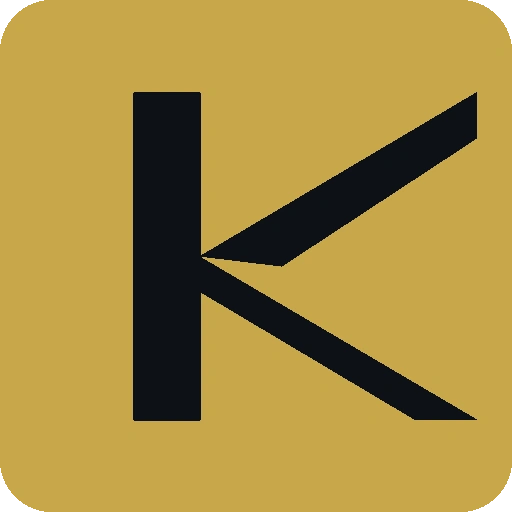
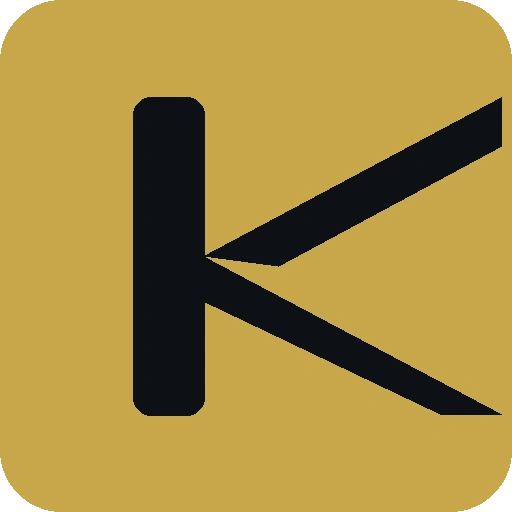
changes

diff --git a/partials/header.html b/partials/header.html
@@ -2,7 +2,23 @@
   <div class="container">
     <div class="brandbar-row">
       <a class="brand" href="/index.html" aria-label="Keynvest LLC Home">
-        <img class="logo-lockup" src="/images/keynvest-logo-1x.webp" alt="Keynvest LLC" />
+        <svg class="logo-lockup" viewBox="0 0 340 58" xmlns="http://www.w3.org/2000/svg" aria-hidden="true">
+          <!-- Gold mark -->
+          <rect x="0" y="0" width="58" height="58" rx="7" fill="#C8A84B"/>
+          <!-- K vertical bar -->
+          <rect x="15" y="11" width="8" height="36" rx="2" fill="#0d1117"/>
+          <!-- K upper arm -->
+          <polygon points="23,29 42,11 42,20 30,31" fill="#0d1117"/>
+          <!-- K lower arm -->
+          <polygon points="23,29 42,47 35,47 23,34" fill="#0d1117"/>
+
+          <!-- Wordmark: KEY white, NVEST gold -->
+          <text font-family="Georgia, 'Times New Roman', serif" font-size="28" font-weight="700" letter-spacing="1" y="36" x="72">
+            <tspan fill="#ffffff">KEY</tspan><tspan fill="#C8A84B">NVEST</tspan>
+          </text>
+          <!-- Tagline -->
+          <text font-family="'Helvetica Neue', Helvetica, Arial, sans-serif" font-size="9" font-weight="500" letter-spacing="2.5" fill="rgba(255,255,255,0.45)" x="72" y="51">REAL ESTATE · LAS VEGAS</text>
+        </svg>
       </a>
 
       <nav class="links" aria-label="Primary navigation">

diff --git a/partials/footer.html b/partials/footer.html
@@ -3,7 +3,12 @@
     <div class="row">
       <div>
         <div style="display:flex; align-items:center; gap:10px;">
-          <img class="logo-mark" src="/images/keynvest-mark.webp" alt="" />
+          <svg width="36" height="36" viewBox="0 0 58 58" xmlns="http://www.w3.org/2000/svg" aria-hidden="true">
+            <rect x="0" y="0" width="58" height="58" rx="7" fill="#C8A84B"/>
+            <rect x="15" y="11" width="8" height="36" rx="2" fill="#0d1117"/>
+            <polygon points="23,29 42,11 42,20 30,31" fill="#0d1117"/>
+            <polygon points="23,29 42,47 35,47 23,34" fill="#0d1117"/>
+          </svg>
           <strong style="color:var(--text)">Keynvest LLC</strong>
         </div>
         <small>Las Vegas-based real estate investment company focused on disciplined underwriting and long-term value.</small>

diff --git a/css/styles.css b/css/styles.css
@@ -201,7 +201,7 @@ nav.links a[aria-current="page"]{
 
 /* --- Logo sizing + helpers --- */
 .logo-mark{width:40px;height:40px}
-.logo-lockup{height:60px;width:auto;display:block}
+.logo-lockup{height:52px;width:auto;display:block}
 
 /* --- Typography --- */
 h2{font-size: clamp(22px, 2.4vw, 30px); margin:0 0 10px}
@@ -333,7 +333,7 @@ nav.links a[aria-current="page"]{
 }
 
 @media (max-width:520px){
-  .logo-lockup{height:48px}
+  .logo-lockup{height:44px}
   nav.links a{padding:10px 14px}
 }
 
